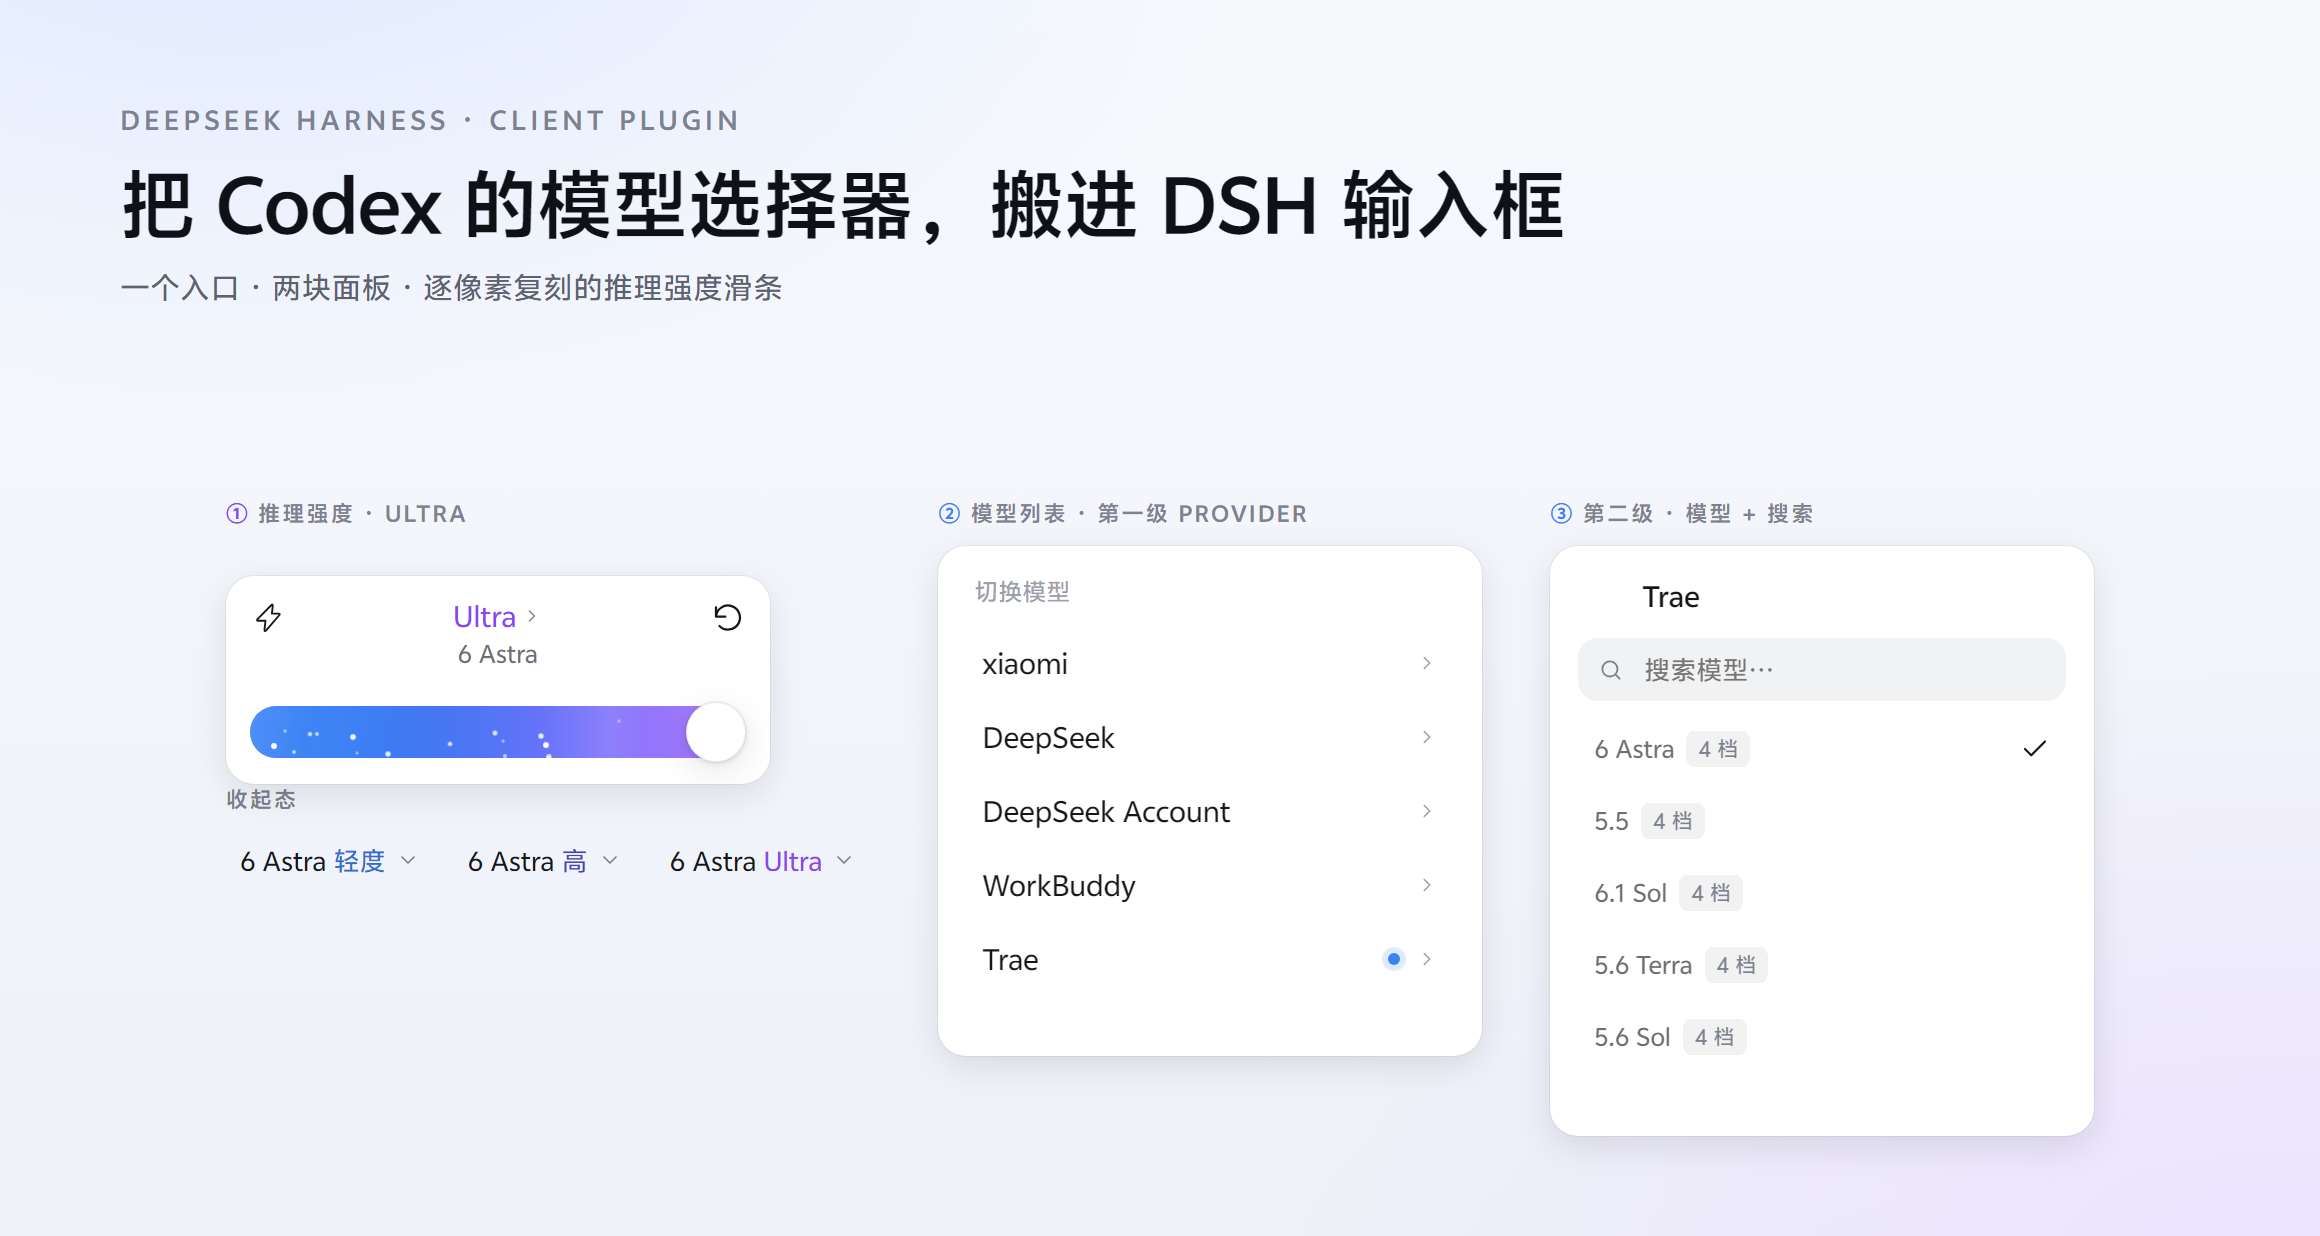
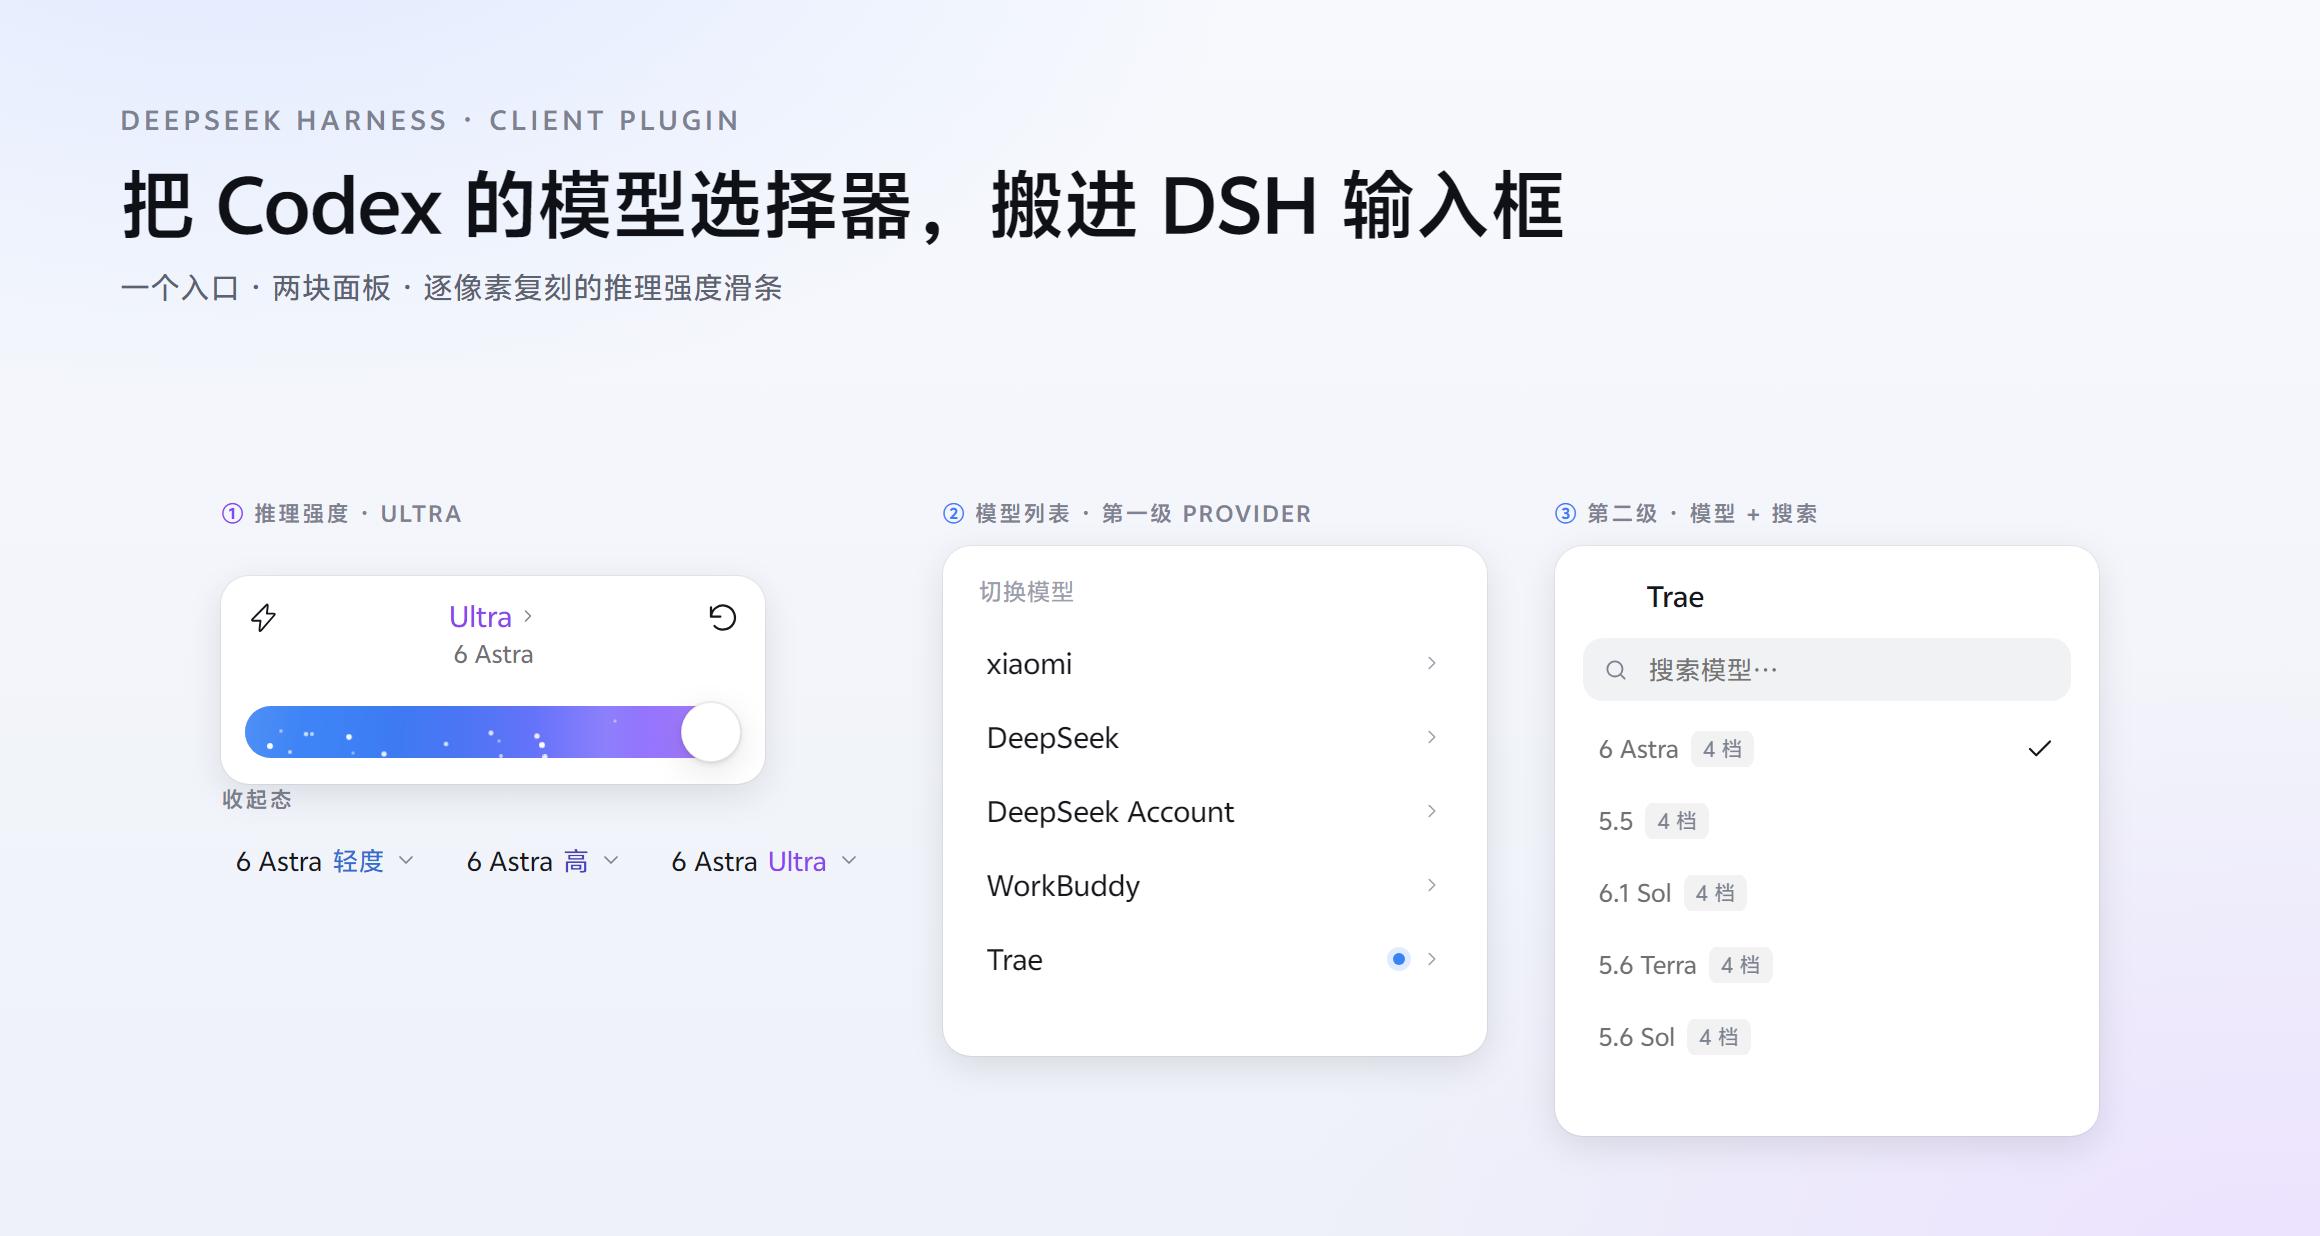
fix: keep the level label visible when the model name is long
With Fast on, a long model name pushed the reasoning level past the ellipsis in
the collapsed seat: the name and the level shared one truncating box
(`.cmes-caption` with `text-overflow: ellipsis`), so the extra ~21px the ⚡ costs
was enough to swallow the level entirely — the trigger read "model name…" with no
level at all.

The name and the level are now separate flex children:

- `.cmes-caption` is the only shrinkable item (`flex:0 1 auto` + ellipsis), so the
  ellipsis eats the NAME;
- `.cmes-triggerEffort` is `flex:none`, so the level (two characters) always fits;
- both still honour `--dsh-composer-model-text-display`, so the host's icon-only
  compact mode hides them together as before.

Verified against the real component at a 250px cap:
- short name: 111px wide, nothing truncated, level 13px visible;
- long name: capped at 250px, `captionTruncated=true`, level still 13px and
  inside the button.

The preview and README-shot generators carried the old in-caption markup, so
they would have drawn the buggy layout; both are updated and the screenshots
regenerated.

Tests: 110 assertions (verify 47, palette 24, encoding 24, collapse 6,
integration 9).

diff --git a/client.js b/client.js
@@ -278,8 +278,12 @@ window.__ModuleLoader__.load({
 .${P}-bolt{width:14px;height:16px;flex:none;color:var(--dsw-alias-label-primary);fill:none;stroke:currentColor;stroke-width:1.5;stroke-linejoin:round}
 .${P}-trigger.fast .${P}-bolt{fill:currentColor;stroke-width:.7}
 .${P}-iconSmall{width:14px;height:14px;flex:none}
-.${P}-caption{display:var(--dsh-composer-model-text-display,inline);overflow:hidden;text-overflow:ellipsis;white-space:nowrap;min-width:0}
-.${P}-triggerEffort{color:var(--${P}-ink,var(--dsw-alias-label-caption));transition:color .2s ease}
+/* The caption is the ONLY part allowed to shrink: the model name truncates with
+   an ellipsis while the level keeps its (two) characters. They used to share one
+   truncating box, so with a long model name — and with Fast on, which costs
+   another ~21px for the ⚡ — the level slid past the ellipsis and disappeared. */
+.${P}-caption{flex:0 1 auto;display:var(--dsh-composer-model-text-display,inline);overflow:hidden;text-overflow:ellipsis;white-space:nowrap;min-width:0}
+.${P}-triggerEffort{flex:none;display:var(--dsh-composer-model-text-display,inline);white-space:nowrap;color:var(--${P}-ink,var(--dsw-alias-label-caption));transition:color .2s ease}
 .${P}-compact{display:var(--dsh-composer-model-icon-display,none)}
 .${P}-chev{width:12px;height:12px;flex:none;color:var(--dsw-alias-label-caption);transition:transform .12s ease}
 .${P}-trigger[aria-expanded=true] .${P}-chev{transform:rotate(180deg)}
@@ -1553,6 +1557,14 @@ body[data-ds-dark-theme] .${P}-root{
         },
           fast ? h('svg', { className: `${P}-bolt`, viewBox: '0 0 24 24', 'aria-hidden': true }, h('path', { d: ICON.bolt })) : null,
           h('span', { className: `${P}-compact` }, icon('model')),
+          /* The model name and the effort are SEPARATE flex children on purpose.
+           * They used to share one truncating box, so a long model name — and
+           * turning Fast on costs another ~21px of width for the ⚡ — pushed the
+           * level label past the ellipsis and it vanished entirely. Splitting
+           * them lets the NAME be the part that truncates while the level stays
+           * legible: it is two characters, and it is the thing the user came to
+           * read. `--dsh-composer-model-text-display` still hides both together
+           * in the host's icon-only compact mode. */
           h('span', { className: `${P}-caption` },
             /* DSH 0.2.1-rc.2 gives the seat a child slot,
              * `conversation.input.model.label`, for inline label decoration
@@ -1567,8 +1579,10 @@ body[data-ds-dark-theme] .${P}-root{
                   provider: { id: group?.id, name: group?.name },
                   model, placement: 'trigger', selected: true
                 }, { fallback: modelName })
-              : modelName,
-            triggerLabel ? h('span', { className: `${P}-triggerEffort` }, ` ${triggerLabel}`) : null),
+              : modelName),
+          triggerLabel
+            ? h('span', { className: `${P}-triggerEffort` }, triggerLabel)
+            : null,
           icon('down', `${P}-chev`)),
 
         h('section', {

diff --git a/CHANGELOG.md b/CHANGELOG.md
@@ -35,6 +35,14 @@
   `efforts.length === 0`，没档位可重置时才是禁用态。
   浏览器实测（真实组件）：有默认值的模型（默认 `高`）从 `中` 重置回 **高**；无默认值的 3 档模型
   从 `极高` 重置到**中间档 `高`** 并真的提交了 `reasoningEffort`（修复前是完全不动）。
+- **开了 Fast 之后，模型名一长就看不到推理强度**。收起态里模型名与档位原本挤在**同一个**会省略的框里
+  （`.cmes-caption` 的 `text-overflow:ellipsis`），所以名字长一点、或者再打开 Fast 多占约 21px
+  （⚡ 图标 + 间距），档位就被省略号一起吞掉，收起态只剩「模型名…」。
+  现在两者拆成**独立的 flex 子项**：模型名是唯一可收缩的那一项（省略号只吃名字），
+  档位标签 `flex:none`，两个字永远完整可见。宿主把 `--dsh-composer-model-text-display` 设为 `none`
+  的图标模式仍然会把两者一起隐藏。
+  浏览器实测（真实组件，250px 上限）：短名 111px 不省略；超长名触发上限 250px、
+  名字 `captionTruncated=true`，档位仍是完整 13px 且落在按钮内。
 
 ## [1.1.1] — 2026-10-17
 

diff --git a/README.md b/README.md
@@ -6,7 +6,7 @@
 
 ![version](https://img.shields.io/badge/version-1.1.2-blue?style=flat-square)
 ![license](https://img.shields.io/badge/license-MIT-green?style=flat-square)
-![tests](https://img.shields.io/badge/tests-109%20passing-brightgreen?style=flat-square)
+![tests](https://img.shields.io/badge/tests-110%20passing-brightgreen?style=flat-square)
 ![dsh](https://img.shields.io/badge/DSH-0.2.1--rc.2-5b6ef5?style=flat-square)
 ![platform](https://img.shields.io/badge/platform-Windows-0078d4?style=flat-square)
 
@@ -189,8 +189,10 @@ dsh plugin --profile desktop list | Select-String codex-model-effort
 **收起态**（输入框右侧，就一颗按钮，同样带档位色）：
 
 ```
-[ ⚡ 6 Astra  Ultra  ⌄ ]
+[ ⚡ DeepSeek-V4.1-Pro-Expe…  高  ⌄ ]
 ```
+
+> 名字过长时**只省略模型名**，档位标签始终完整显示（Fast 打开多占一个 ⚡ 也一样）。
 
 **点开**后：
 

diff --git a/README.en.md b/README.en.md
@@ -7,7 +7,7 @@
 
 ![version](https://img.shields.io/badge/version-1.1.2-blue?style=flat-square)
 ![license](https://img.shields.io/badge/license-MIT-green?style=flat-square)
-![tests](https://img.shields.io/badge/tests-109%20passing-brightgreen?style=flat-square)
+![tests](https://img.shields.io/badge/tests-110%20passing-brightgreen?style=flat-square)
 ![dsh](https://img.shields.io/badge/DSH-0.2.1--rc.2-5b6ef5?style=flat-square)
 ![platform](https://img.shields.io/badge/platform-Windows-0078d4?style=flat-square)
 
